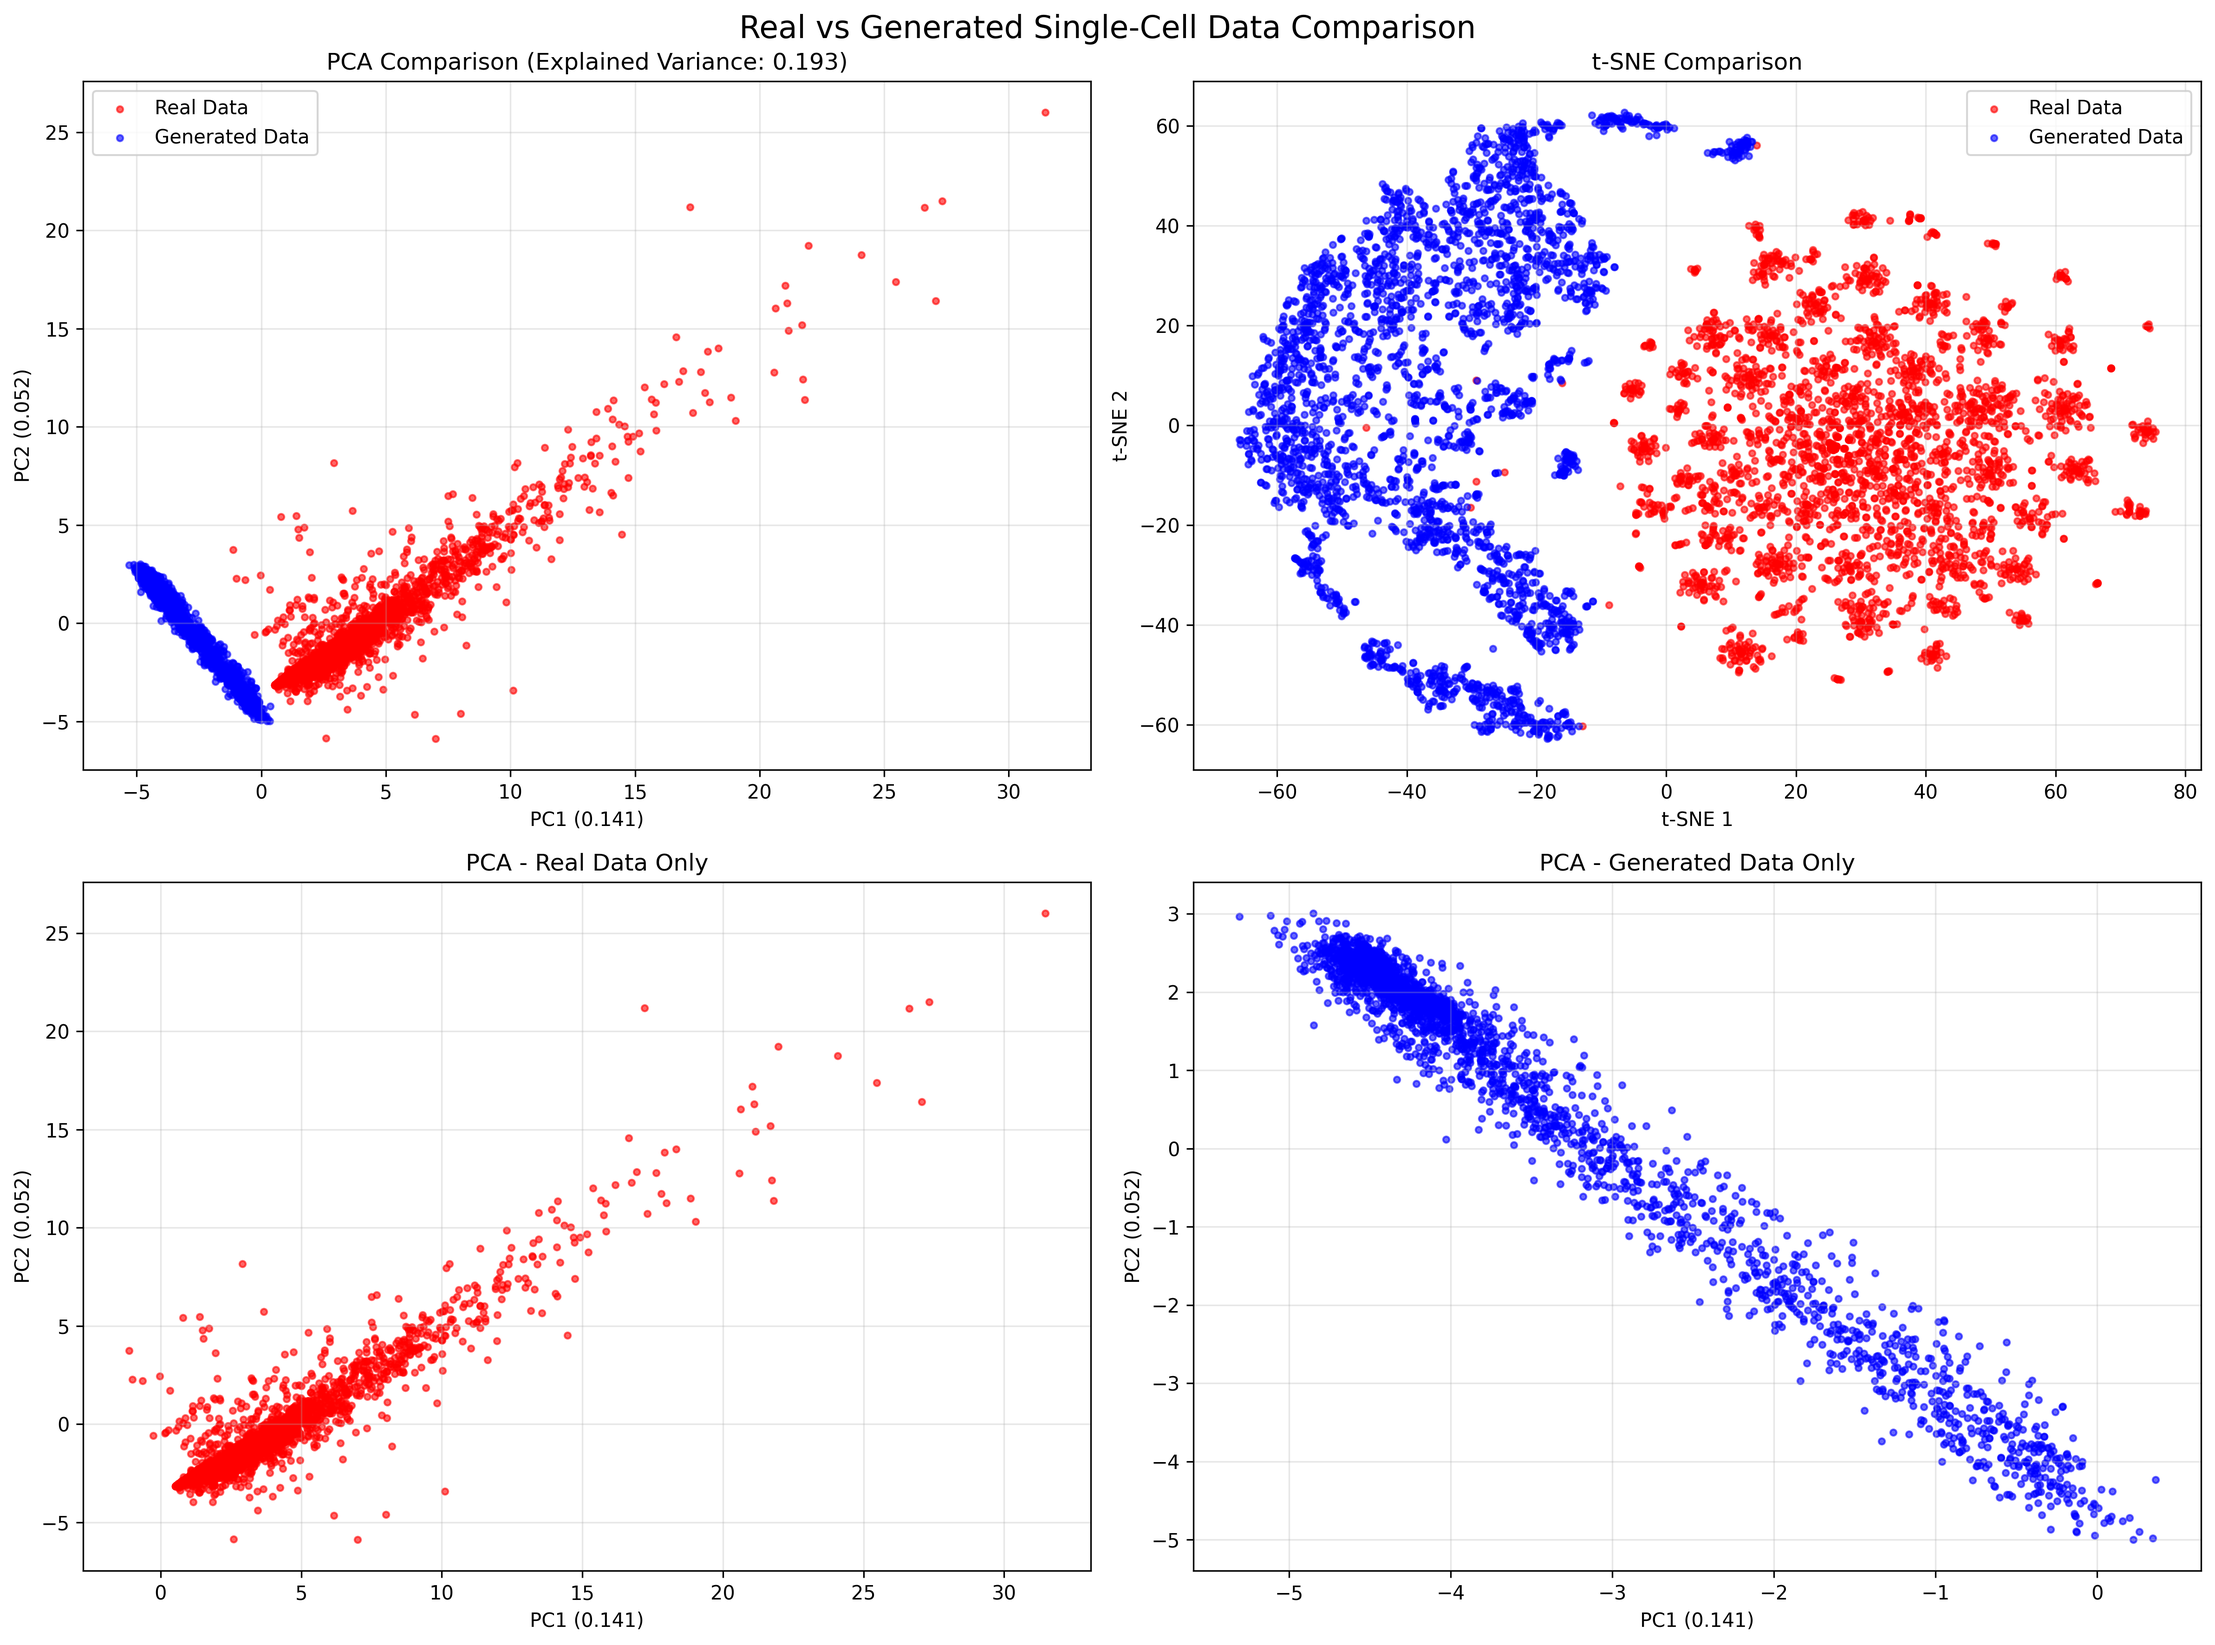
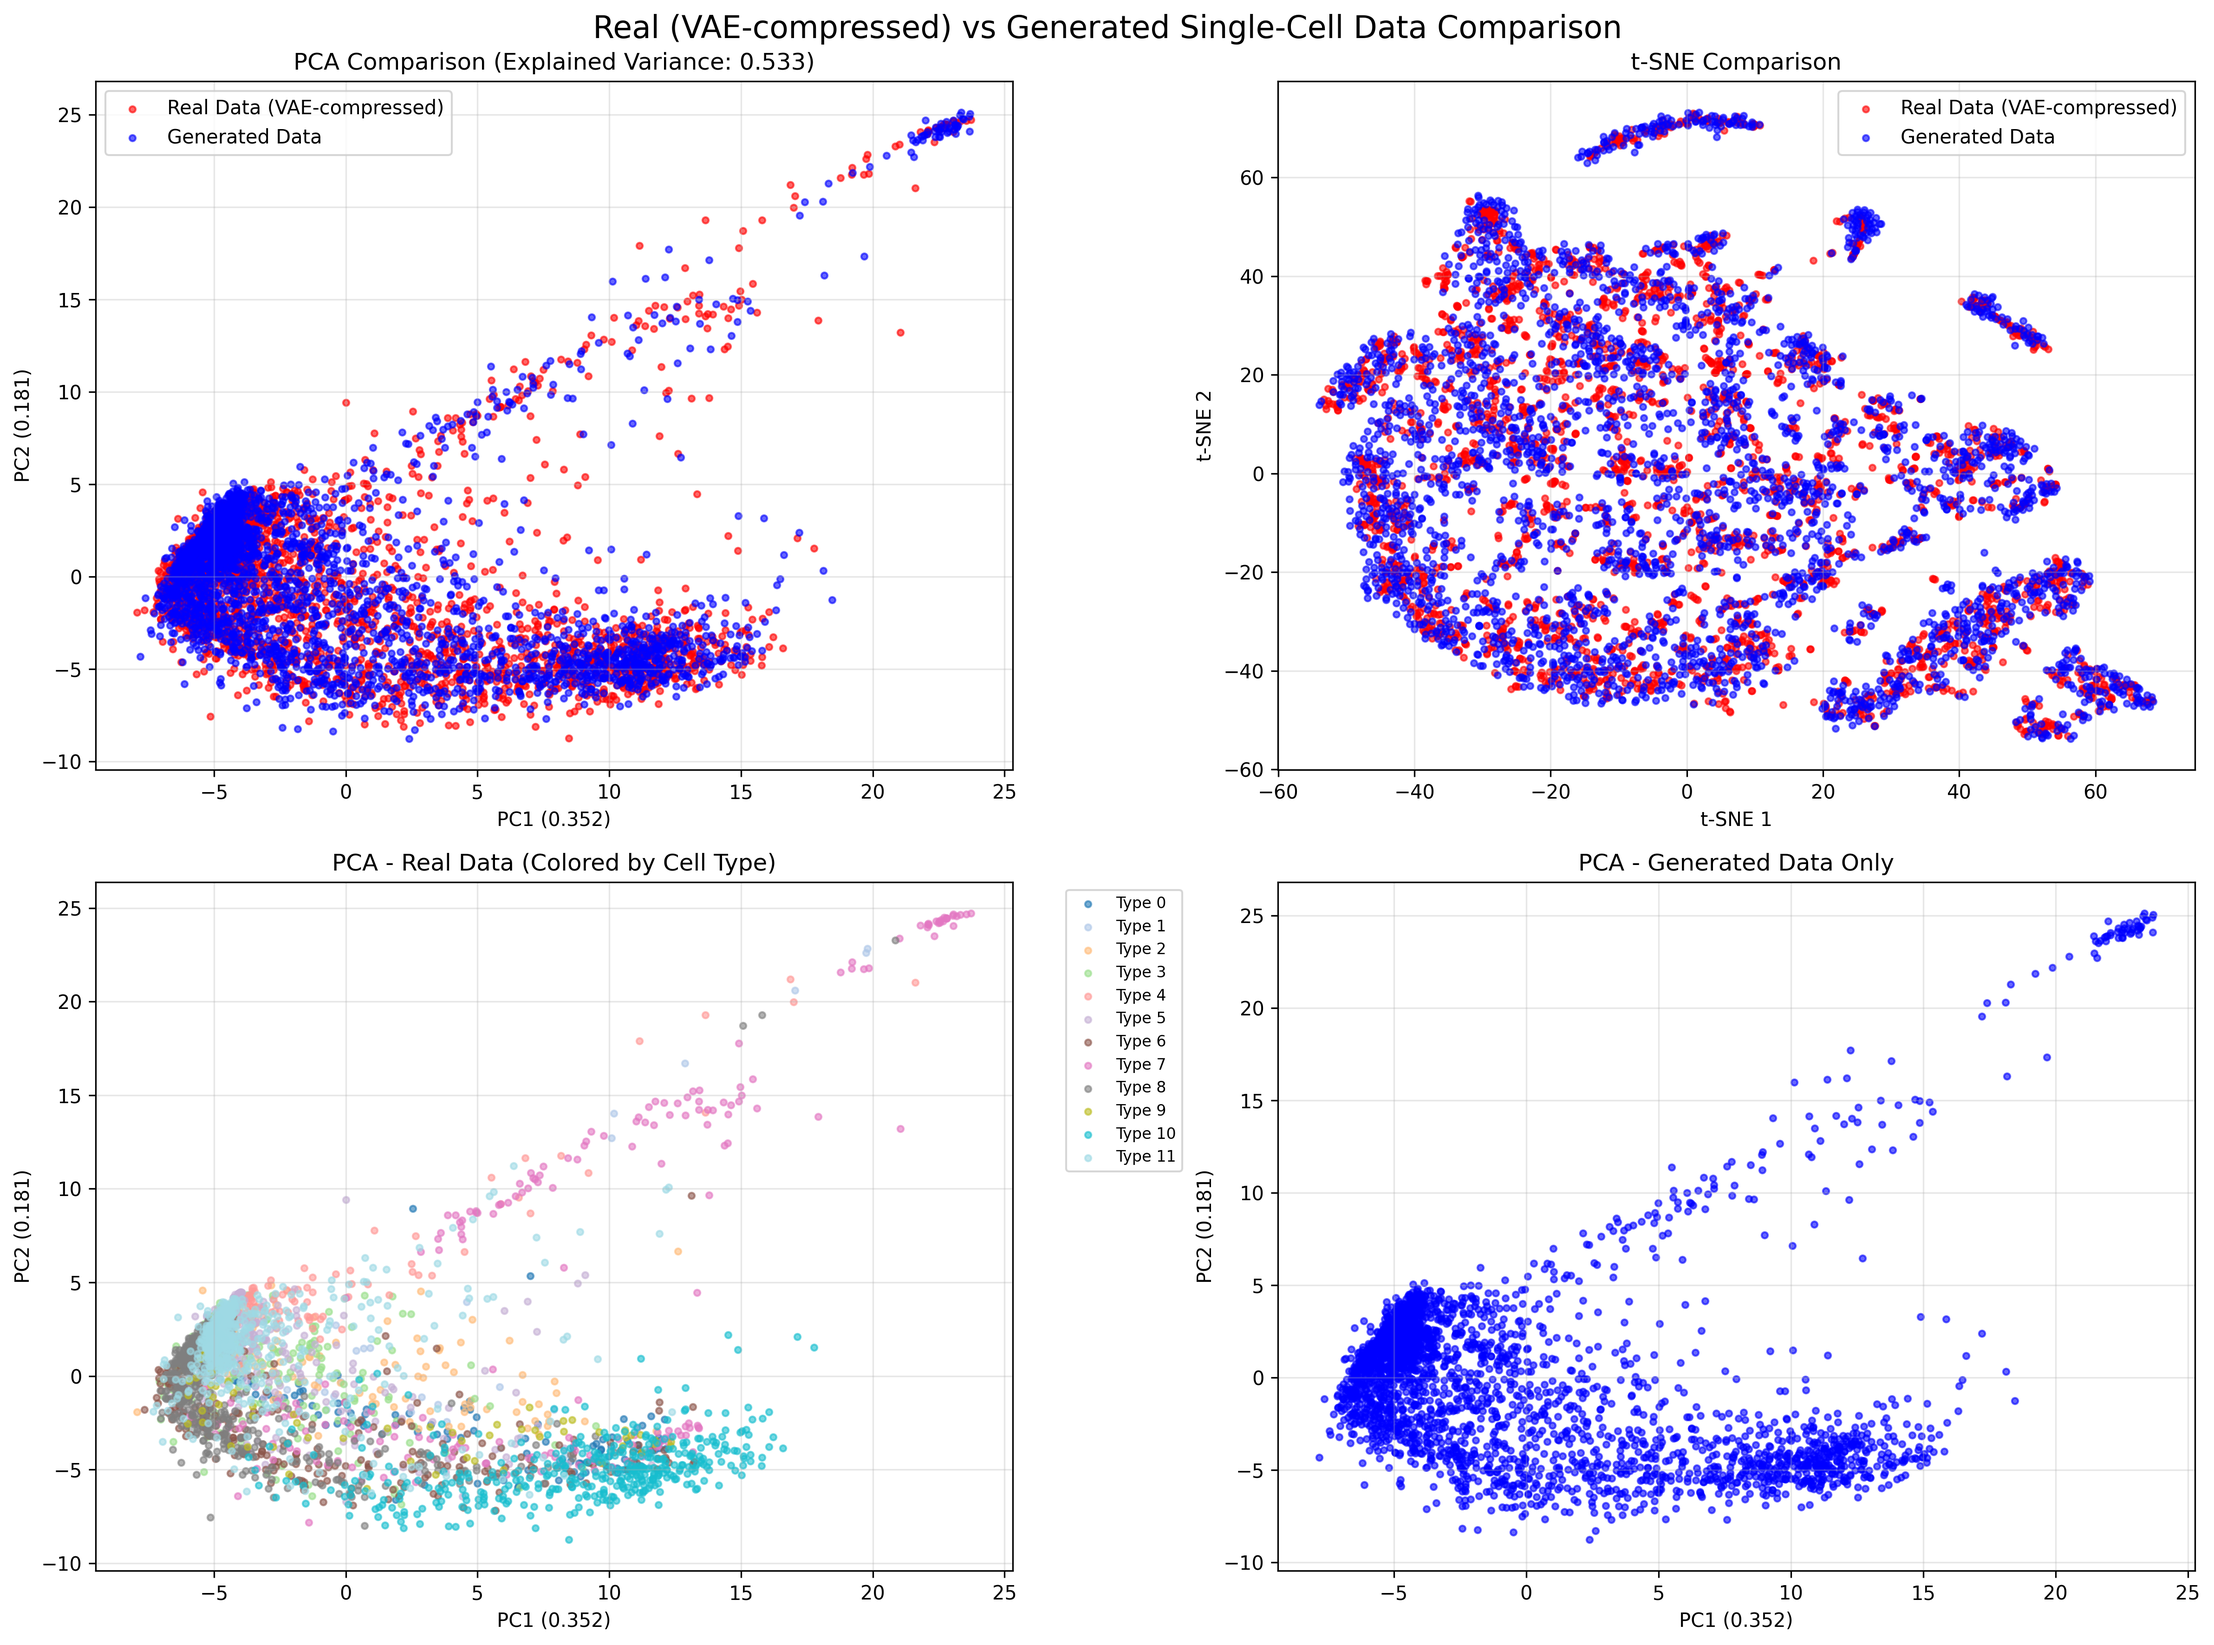
compare realvsfake

diff --git a/compare_real_vs_fake_vae.py b/compare_real_vs_fake_vae.py
@@ -1,0 +1,243 @@
+#!/usr/bin/env python3
+"""
+Compare real Tabula Muris data (VAE-compressed) vs scDiffusion generated data
+"""
+
+import numpy as np
+import matplotlib.pyplot as plt
+import seaborn as sns
+import torch
+import sys
+import os
+sys.path.append('benchmark/scDiffusion')
+from benchmark.scDiffusion.guided_diffusion.cell_datasets_GB import load_data
+from sklearn.decomposition import PCA
+from sklearn.manifold import TSNE
+from sklearn.preprocessing import StandardScaler
+import pandas as pd
+import warnings
+warnings.filterwarnings('ignore')
+
+def load_real_data_vae(data_dir, vae_path, batch_size=64, hidden_dim=128):
+    """Load real data using VAE compression"""
+    print(f"Loading real data from: {data_dir}")
+    print(f"Using VAE model: {vae_path}")
+    
+    # Use the load_data function from cell_datasets_GB.py
+    data_loader = load_data(
+        data_dir=data_dir,
+        batch_size=batch_size,
+        vae_path=vae_path,
+        train_vae=False,
+        hidden_dim=hidden_dim
+    )
+    
+    # Collect all data from the loader
+    all_data = []
+    all_labels = []
+    
+    print("Collecting data from loader...")
+    for i, (batch_data, batch_info) in enumerate(data_loader):
+        if isinstance(batch_data, torch.Tensor):
+            batch_data = batch_data.cpu().numpy()
+        
+        all_data.append(batch_data)
+        if 'y' in batch_info:
+            all_labels.append(batch_info['y'])
+        
+        if i >= 100:  # Limit to ~6400 samples (64*100)
+            break
+    
+    real_data = np.vstack(all_data)
+    real_labels = np.hstack(all_labels) if all_labels else None
+    
+    print(f"Collected {real_data.shape[0]} real samples with {real_data.shape[1]} features")
+    return real_data, real_labels
+
+def load_generated_data(filepath):
+    """Load generated data from npz file"""
+    data = np.load(filepath)
+    return data['cell_gen']
+
+def subsample_data(X, labels=None, n_samples=3000, random_state=42):
+    """Subsample data to manageable size for visualization"""
+    if X.shape[0] <= n_samples:
+        return X, labels, np.arange(X.shape[0])
+    
+    np.random.seed(random_state)
+    indices = np.random.choice(X.shape[0], n_samples, replace=False)
+    
+    X_sub = X[indices]
+    labels_sub = labels[indices] if labels is not None else None
+    
+    return X_sub, labels_sub, indices
+
+def compute_pca(real_X, fake_X, n_components=2):
+    """Compute PCA on combined data"""
+    # Combine data for fitting PCA
+    combined_X = np.vstack([real_X, fake_X])
+    
+    # Standardize
+    scaler = StandardScaler()
+    combined_X_scaled = scaler.fit_transform(combined_X)
+    
+    # Fit PCA
+    pca = PCA(n_components=n_components)
+    combined_pca = pca.fit_transform(combined_X_scaled)
+    
+    # Split back
+    real_pca = combined_pca[:real_X.shape[0]]
+    fake_pca = combined_pca[real_X.shape[0]:]
+    
+    return real_pca, fake_pca, pca
+
+def compute_tsne(real_X, fake_X, n_components=2, perplexity=30):
+    """Compute t-SNE on combined data"""
+    # Combine data for fitting t-SNE
+    combined_X = np.vstack([real_X, fake_X])
+    
+    # Standardize
+    scaler = StandardScaler()
+    combined_X_scaled = scaler.fit_transform(combined_X)
+    
+    # Fit t-SNE
+    tsne = TSNE(n_components=n_components, random_state=42, perplexity=perplexity)
+    combined_tsne = tsne.fit_transform(combined_X_scaled)
+    
+    # Split back
+    real_tsne = combined_tsne[:real_X.shape[0]]
+    fake_tsne = combined_tsne[real_X.shape[0]:]
+    
+    return real_tsne, fake_tsne
+
+def plot_comparison(real_pca, fake_pca, real_tsne, fake_tsne, pca_obj, real_labels=None, save_path=None):
+    """Create comparison plots"""
+    fig, axes = plt.subplots(2, 2, figsize=(16, 12))
+    
+    # PCA comparison
+    axes[0, 0].scatter(real_pca[:, 0], real_pca[:, 1], alpha=0.6, s=10, 
+                      color='red', label='Real Data (VAE-compressed)')
+    axes[0, 0].scatter(fake_pca[:, 0], fake_pca[:, 1], alpha=0.6, s=10, 
+                      color='blue', label='Generated Data')
+    axes[0, 0].set_title(f'PCA Comparison (Explained Variance: {pca_obj.explained_variance_ratio_.sum():.3f})')
+    axes[0, 0].set_xlabel(f'PC1 ({pca_obj.explained_variance_ratio_[0]:.3f})')
+    axes[0, 0].set_ylabel(f'PC2 ({pca_obj.explained_variance_ratio_[1]:.3f})')
+    axes[0, 0].legend()
+    axes[0, 0].grid(True, alpha=0.3)
+    
+    # t-SNE comparison
+    axes[0, 1].scatter(real_tsne[:, 0], real_tsne[:, 1], alpha=0.6, s=10, 
+                      color='red', label='Real Data (VAE-compressed)')
+    axes[0, 1].scatter(fake_tsne[:, 0], fake_tsne[:, 1], alpha=0.6, s=10, 
+                      color='blue', label='Generated Data')
+    axes[0, 1].set_title('t-SNE Comparison')
+    axes[0, 1].set_xlabel('t-SNE 1')
+    axes[0, 1].set_ylabel('t-SNE 2')
+    axes[0, 1].legend()
+    axes[0, 1].grid(True, alpha=0.3)
+    
+    # PCA - Real data only (colored by cell type if available)
+    if real_labels is not None:
+        unique_labels = np.unique(real_labels)
+        colors = plt.cm.tab20(np.linspace(0, 1, len(unique_labels)))
+        for i, label in enumerate(unique_labels):
+            mask = real_labels == label
+            axes[1, 0].scatter(real_pca[mask, 0], real_pca[mask, 1], 
+                             alpha=0.6, s=10, color=colors[i], label=f'Type {label}')
+        axes[1, 0].set_title('PCA - Real Data (Colored by Cell Type)')
+        axes[1, 0].legend(bbox_to_anchor=(1.05, 1), loc='upper left', fontsize=8)
+    else:
+        axes[1, 0].scatter(real_pca[:, 0], real_pca[:, 1], alpha=0.6, s=10, color='red')
+        axes[1, 0].set_title('PCA - Real Data Only')
+    
+    axes[1, 0].set_xlabel(f'PC1 ({pca_obj.explained_variance_ratio_[0]:.3f})')
+    axes[1, 0].set_ylabel(f'PC2 ({pca_obj.explained_variance_ratio_[1]:.3f})')
+    axes[1, 0].grid(True, alpha=0.3)
+    
+    # PCA - Generated data only
+    axes[1, 1].scatter(fake_pca[:, 0], fake_pca[:, 1], alpha=0.6, s=10, color='blue')
+    axes[1, 1].set_title('PCA - Generated Data Only')
+    axes[1, 1].set_xlabel(f'PC1 ({pca_obj.explained_variance_ratio_[0]:.3f})')
+    axes[1, 1].set_ylabel(f'PC2 ({pca_obj.explained_variance_ratio_[1]:.3f})')
+    axes[1, 1].grid(True, alpha=0.3)
+    
+    plt.suptitle('Real (VAE-compressed) vs Generated Single-Cell Data Comparison', fontsize=16, y=0.98)
+    plt.tight_layout()
+    
+    if save_path:
+        plt.savefig(save_path, dpi=300, bbox_inches='tight')
+        print(f"Comparison plot saved to: {save_path}")
+    
+    plt.show()
+
+def generate_statistics_comparison(real_X, fake_X, real_labels=None):
+    """Generate comparison statistics"""
+    print("=== Real (VAE-compressed) vs Generated Data Comparison ===")
+    print(f"Real data shape: {real_X.shape}")
+    print(f"Generated data shape: {fake_X.shape}")
+    
+    if real_labels is not None:
+        print(f"Real data cell types: {len(np.unique(real_labels))}")
+        print(f"Cell type distribution: {np.bincount(real_labels)}")
+    print()
+    
+    print("Expression Statistics:")
+    print("Real Data (VAE-compressed):")
+    print(f"  Mean: {np.mean(real_X):.6f}")
+    print(f"  Std:  {np.std(real_X):.6f}")
+    print(f"  Min:  {np.min(real_X):.6f}")
+    print(f"  Max:  {np.max(real_X):.6f}")
+    
+    print("Generated Data:")
+    print(f"  Mean: {np.mean(fake_X):.6f}")
+    print(f"  Std:  {np.std(fake_X):.6f}")
+    print(f"  Min:  {np.min(fake_X):.6f}")
+    print(f"  Max:  {np.max(fake_X):.6f}")
+    print()
+    
+    print("Sparsity Analysis:")
+    real_sparsity = np.sum(real_X == 0) / real_X.size
+    fake_sparsity = np.sum(fake_X == 0) / fake_X.size
+    print(f"Real data sparsity: {real_sparsity:.3f} ({real_sparsity*100:.1f}%)")
+    print(f"Generated data sparsity: {fake_sparsity:.3f} ({fake_sparsity*100:.1f}%)")
+
+def main():
+    # Data paths
+    data_dir = '/ceph/hpc/home/eujinyuanw/omics_analysis/benchmark/scDiffusion/data/data/tabula_muris/all.h5ad'
+    vae_path = '/ceph/hpc/home/eujinyuanw/omics_analysis/benchmark/scDiffusion/checkpoint/AE/my_VAE/model_seed=0_step=0.pt'
+    generated_data_path = 'benchmark/output/sample/scDiffusion/unconditional_sampling.npz'
+    
+    # Load real data using VAE compression
+    print("Loading real data with VAE compression...")
+    real_X, real_labels = load_real_data_vae(data_dir, vae_path, batch_size=64, hidden_dim=128)
+    
+    # Load generated data
+    print("Loading generated data...")
+    fake_X = load_generated_data(generated_data_path)
+    
+    # Subsample real data for computational efficiency
+    print("Subsampling real data...")
+    real_X_sub, real_labels_sub, real_indices = subsample_data(real_X, real_labels, n_samples=3000)
+    
+    # Ensure both datasets have same number of samples for fair comparison
+    min_samples = min(real_X_sub.shape[0], fake_X.shape[0])
+    real_X_sub = real_X_sub[:min_samples]
+    fake_X = fake_X[:min_samples]
+    if real_labels_sub is not None:
+        real_labels_sub = real_labels_sub[:min_samples]
+    
+    # Generate statistics
+    generate_statistics_comparison(real_X_sub, fake_X, real_labels_sub)
+    
+    print("\nComputing PCA...")
+    real_pca, fake_pca, pca_obj = compute_pca(real_X_sub, fake_X)
+    
+    print("Computing t-SNE...")
+    real_tsne, fake_tsne = compute_tsne(real_X_sub, fake_X)
+    
+    print("Creating comparison plots...")
+    plot_comparison(real_pca, fake_pca, real_tsne, fake_tsne, pca_obj, 
+                   real_labels_sub, 'plots/dimensionality_reduction_real_vs_fake.png')
+
+if __name__ == "__main__":
+    main()

diff --git a/README.md b/README.md
@@ -57,6 +57,18 @@ Initial results from scDiffusion model showing unconditional generation of synth
 
 The visualization shows PCA and t-SNE projections of 3000 synthetically generated cells with 128 gene features. The PCA captures 73.4% of the variance in the first two components, while t-SNE reveals the underlying structure and diversity of the generated cell population.
 
+### Real vs Generated Data Comparison
+
+Comparison between real Tabula Muris data (VAE-compressed) and scDiffusion generated samples:
+
+![Real vs Generated Data Comparison](plots/dimensionality_reduction_real_vs_fake.png)
+
+The comparison demonstrates that scDiffusion successfully learns the underlying data distribution:
+- **Statistical similarity**: Generated data matches real data statistics (Mean: -0.0009 vs -0.0009, Std: 0.088)
+- **Latent space coverage**: Generated cells occupy similar regions as real cells in the 128D VAE latent space
+- **Cell type diversity**: Real data contains 12 cell types from Tabula Muris, and generated data shows comparable structural complexity
+- **Quality assessment**: Both PCA and t-SNE visualizations show good mixing between real and synthetic data
+
 ## Status
 
 🚧 **Work in Progress** - Models and datasets are being set up for benchmarking.
